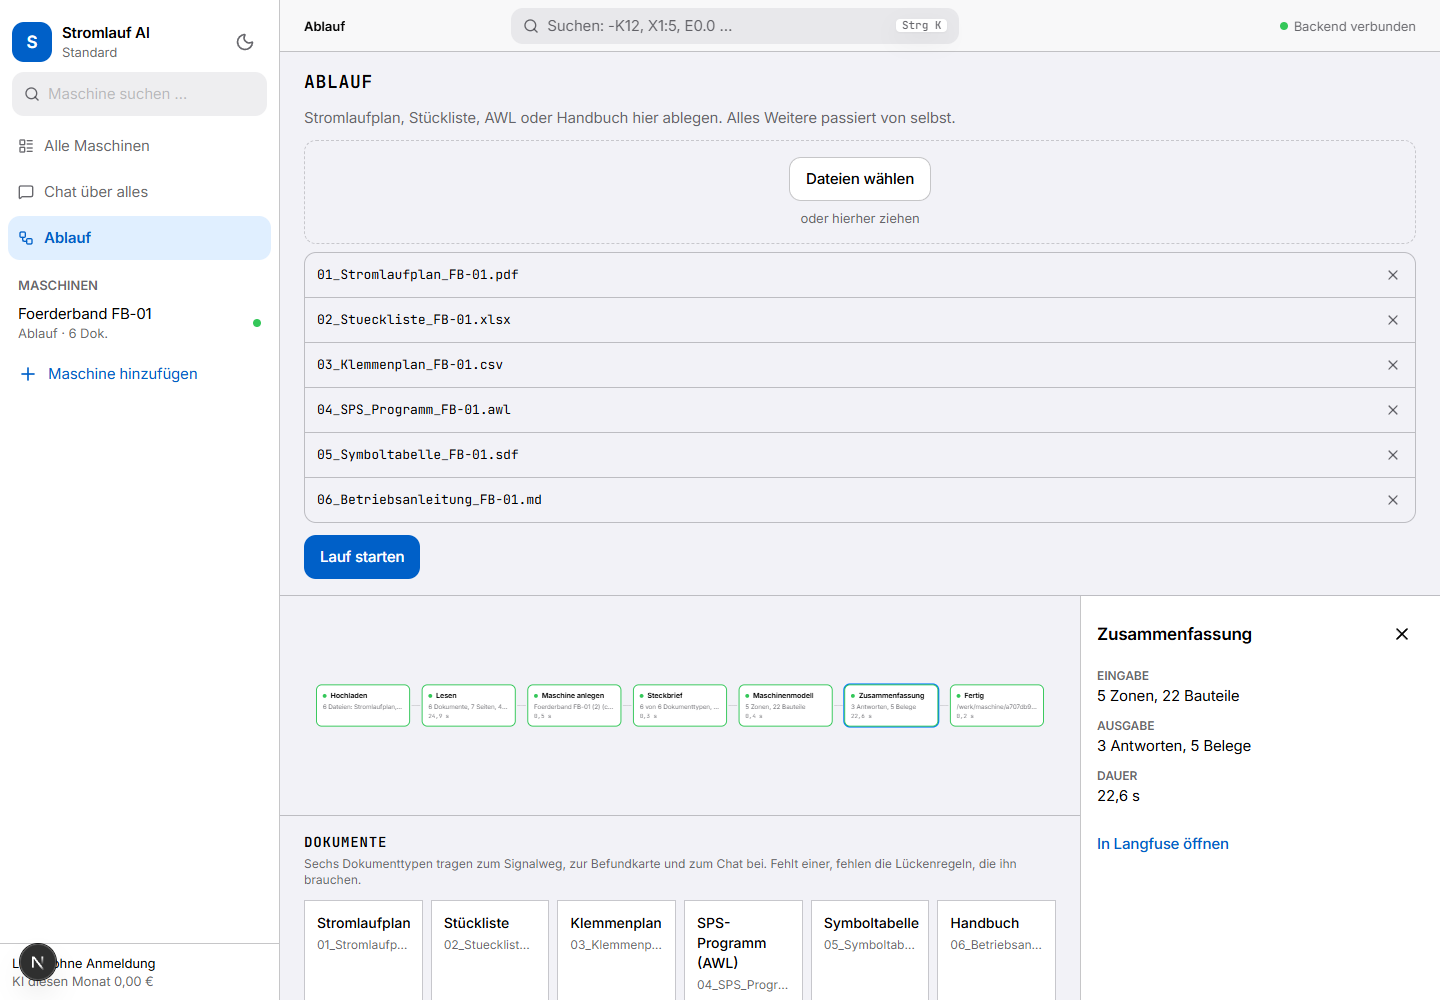
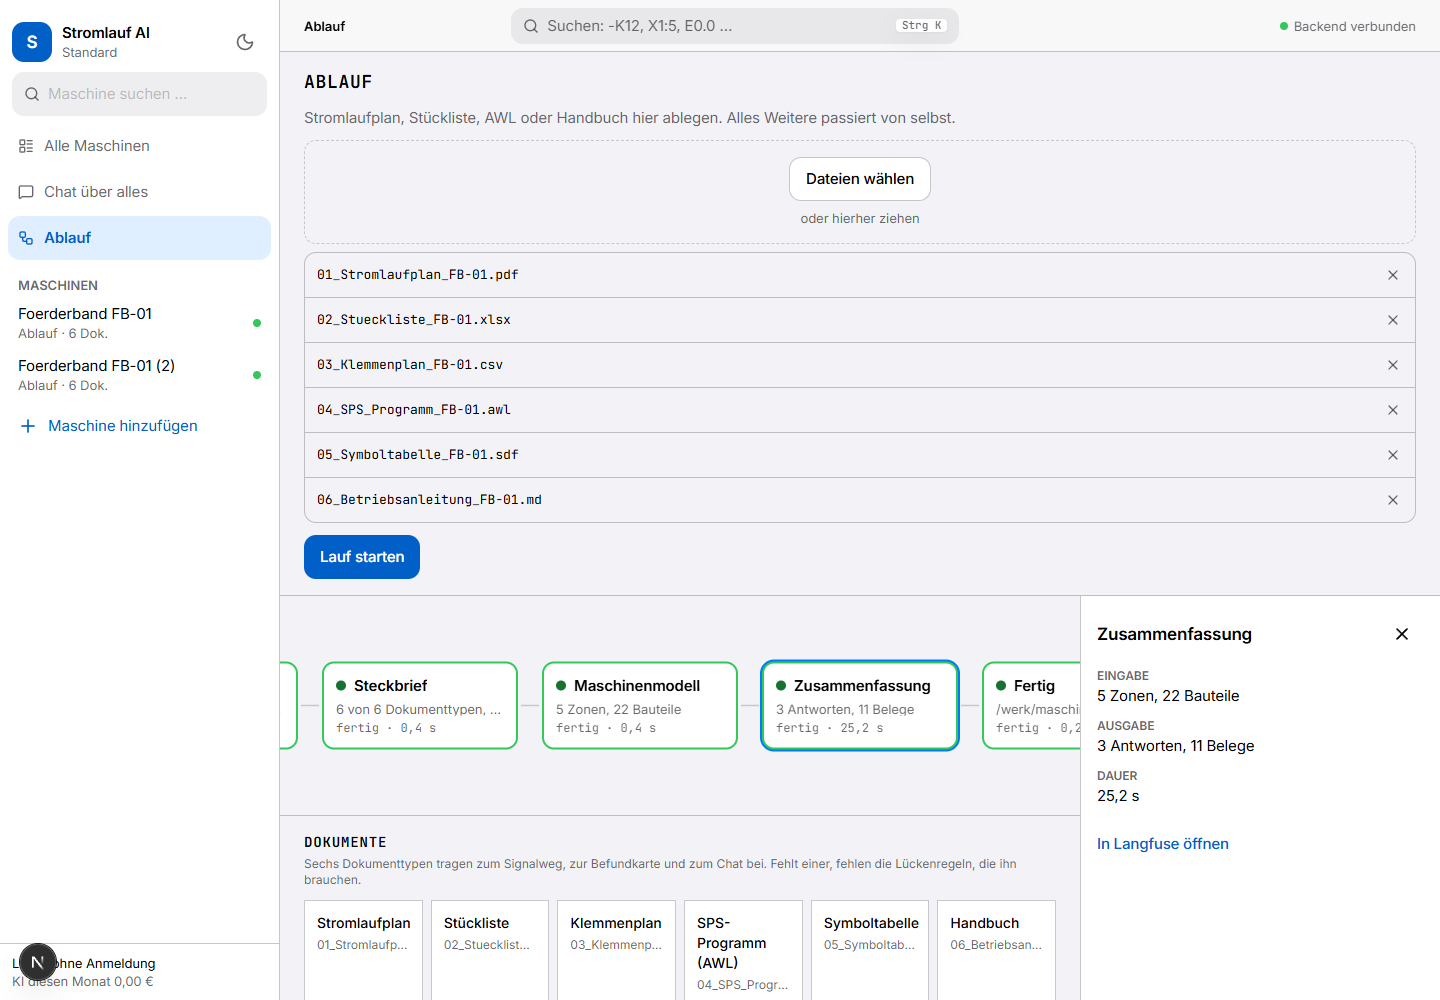
fix(ablauf): Graph lesbar, Status-Punkt mit AA-Kontrast (SIN-823)
Part of SIN-823

Changed region(s): [[0.2188, 0.651, 0.75, 0.775], [0.0, 0.341, 0.125, 0.434], [0.8125, 0.744, 0.875, 0.775]]

diff --git a/frontend/src/components/ablauf/AblaufGraph.tsx b/frontend/src/components/ablauf/AblaufGraph.tsx
@@ -2,18 +2,33 @@
 
 import "@xyflow/react/dist/style.css";
 
-import { Handle, Position, ReactFlow, type Node, type NodeProps, type NodeTypes } from "@xyflow/react";
-import { useMemo } from "react";
+import { Handle, Position, ReactFlow, useReactFlow, type Node, type NodeProps, type NodeTypes } from "@xyflow/react";
+import { useEffect, useMemo } from "react";
 
 import type { RunStep } from "@/lib/api";
 import { cn } from "@/lib/utils";
 
 import { dauerText, flowOf, statusKlasse } from "./knoten";
+import type { SchrittStatus } from "@/lib/api";
+
+const NODE_W = 196;
+const NODE_H = 88;
+const ZEILE_Y = 66;
+
+// Punkt in den kräftigen Tokens (>= 3:1 auf der Karte); der Zustand steht zusätzlich als Text im Knoten.
+const PUNKT: Record<SchrittStatus, string> = {
+  wartet: "bg-text-secondary",
+  laeuft: "bg-accent-strong",
+  fertig: "bg-ok-strong",
+  fehler: "bg-error-strong",
+};
 
 type KnotenDaten = { step: RunStep; index: number; selected: boolean; onSelect: (step: RunStep) => void };
 
-function SchrittKnoten({ data }: NodeProps<Node<KnotenDaten, "schritt">>) {
+function SchrittKnoten({ data, positionAbsoluteX, positionAbsoluteY }: NodeProps<Node<KnotenDaten, "schritt">>) {
   const { step, selected, onSelect } = data;
+  const { setCenter } = useReactFlow();
+  const dauer = dauerText(step);
   return (
     <>
       <Handle type="target" position={Position.Left} isConnectable={false} className="!opacity-0" />
@@ -24,6 +39,7 @@ function SchrittKnoten({ data }: NodeProps<Node<KnotenDaten, "schritt">>) {
         aria-label={`${step.label}: ${step.status}`}
         aria-pressed={selected}
         onClick={() => onSelect(step)}
+        onFocus={() => setCenter(positionAbsoluteX + NODE_W / 2, positionAbsoluteY + NODE_H / 2, { zoom: 1, duration: 150 })}
         className={cn(
           "nodrag nopan flex h-[88px] w-[196px] flex-col items-start gap-1 overflow-hidden rounded-md border-2 bg-card p-3 text-left",
           statusKlasse(step.status),
@@ -31,11 +47,11 @@ function SchrittKnoten({ data }: NodeProps<Node<KnotenDaten, "schritt">>) {
         )}
       >
         <span className="flex w-full items-center gap-2">
-          <span aria-hidden className="size-2 shrink-0 rounded-full bg-current" />
+          <span aria-hidden className={cn("size-2.5 shrink-0 rounded-full", PUNKT[step.status])} />
           <span className="truncate text-subhead font-semibold text-foreground">{step.label}</span>
         </span>
         <span className="w-full truncate text-footnote text-muted-foreground">{step.output || step.error || "–"}</span>
-        <span className="font-mono text-caption-1 text-muted-foreground">{dauerText(step) || " "}</span>
+        <span className="font-mono text-caption-1 text-muted-foreground">{step.status}{dauer && ` · ${dauer}`}</span>
       </button>
       <Handle type="source" position={Position.Right} isConnectable={false} className="!opacity-0" />
     </>
@@ -44,6 +60,20 @@ function SchrittKnoten({ data }: NodeProps<Node<KnotenDaten, "schritt">>) {
 
 const NODE_TYPES: NodeTypes = { schritt: SchrittKnoten };
 
+/** Der gewählte Schritt bleibt sichtbar, auch wenn das Panel die Breite verkleinert. */
+function ZumGewaehlten({ steps, selected }: { steps: RunStep[]; selected: string | null }) {
+  const { setCenter } = useReactFlow();
+  useEffect(() => {
+    const index = steps.findIndex((s) => s.key === selected);
+    if (index < 0) return;
+    const { nodes } = flowOf(steps);
+    setCenter(nodes[index].position.x + NODE_W / 2, nodes[index].position.y + NODE_H / 2, { zoom: 1, duration: 150 });
+    // nur bei Wechsel der Auswahl; steps ändern sich im Polling ständig
+    // eslint-disable-next-line react-hooks/exhaustive-deps
+  }, [selected]);
+  return null;
+}
+
 /** Die sieben Schritte eines Laufs als Reihe von Knoten; Klick oder Enter wählt einen Schritt. */
 export function AblaufGraph({ steps, selected, onSelect }: { steps: RunStep[]; selected: string | null; onSelect: (step: RunStep) => void }) {
   const flow = useMemo(() => {
@@ -51,8 +81,8 @@ export function AblaufGraph({ steps, selected, onSelect }: { steps: RunStep[]; s
     return {
       nodes: nodes.map((node) => ({
         ...node,
-        width: 196,
-        height: 88,
+        width: NODE_W,
+        height: NODE_H,
         draggable: false,
         data: { ...node.data, selected: node.id === selected, onSelect },
       })),
@@ -63,17 +93,23 @@ export function AblaufGraph({ steps, selected, onSelect }: { steps: RunStep[]; s
   return (
     <div className="size-full bg-background" data-testid="ablauf-graph">
       <ReactFlow
-        key={selected === null ? "ohne-panel" : "mit-panel"}
         nodes={flow.nodes}
         edges={flow.edges}
         nodeTypes={NODE_TYPES}
         nodesDraggable={false}
         nodesConnectable={false}
-        fitView
-        fitViewOptions={{ padding: 0.1, maxZoom: 1 }}
-        minZoom={0.2}
+        defaultViewport={{ x: 16, y: ZEILE_Y, zoom: 1 }}
+        minZoom={1}
+        maxZoom={1}
+        nodesFocusable={false}
+        zoomOnScroll={false}
+        zoomOnPinch={false}
+        zoomOnDoubleClick={false}
+        preventScrolling={false}
         proOptions={{ hideAttribution: true }}
-      />
+      >
+        <ZumGewaehlten steps={steps} selected={selected} />
+      </ReactFlow>
     </div>
   );
 }
